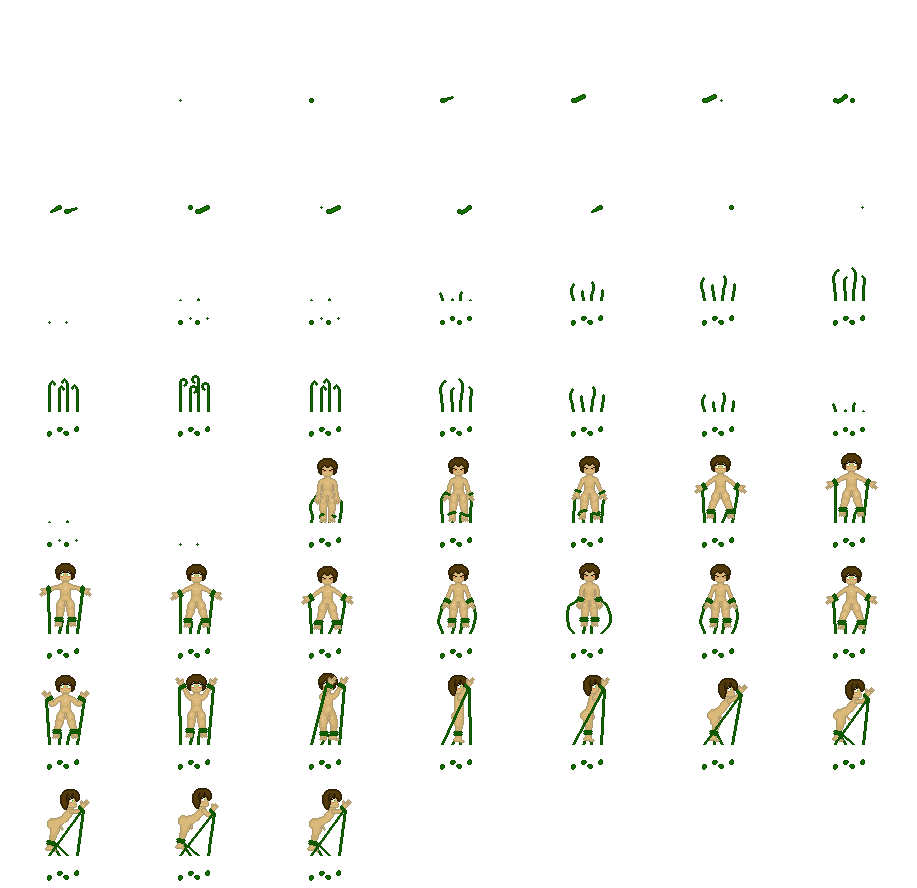
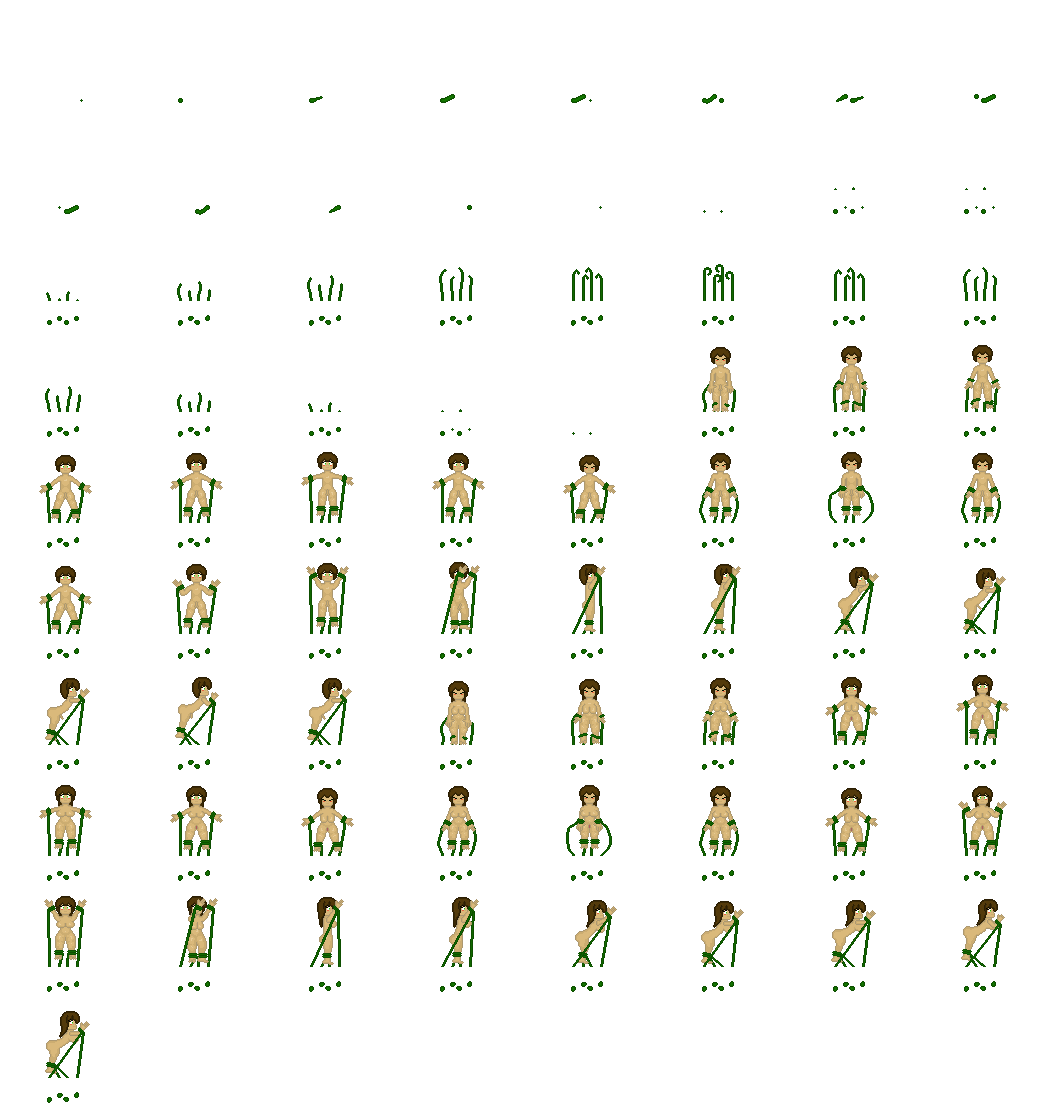
saving implementation of female player and male pumpkin sprites.

diff --git a/scripts/enemyScripts/lockwood/jackOVine/vine.js b/scripts/enemyScripts/lockwood/jackOVine/vine.js
@@ -35,6 +35,8 @@ class vine extends enemy{
         this.maxMoves = 10;
         this.currentMoves = 0;
 
+        this.destroyed = false;
+
         this.animationPlaying = false;
         this.animationPlayed = false;
         this.transitioningStates = false;
@@ -42,17 +44,24 @@ class vine extends enemy{
         this.anims.create({ key: 'travel', frames: this.anims.generateFrameNames('vines', { start: 0, end: 12 }), frameRate:  20, repeat: 0 });
         this.anims.create({ key: 'grabStart', frames: this.anims.generateFrameNames('vines', { start: 14, end: 20 }), frameRate:  10, repeat: 0 });
         this.anims.create({ key: 'grabMiddle', frames: this.anims.generateFrameNames('vines', { start: 21, end: 23 }), frameRate:  10, repeat: 0 });
-        this.anims.create({ key: 'grabEnd', frames: this.anims.generateFrameNames('vines', { start: 24, end: 29 }), frameRate:  10, repeat: 0 });
+        this.anims.create({ key: 'grabEnd', frames: this.anims.generateFrameNames('vines', { start: 24, end: 28 }), frameRate:  10, repeat: 0 });
         if(sex === 0 ){
 
-            this.anims.create({ key: 'PlayerGrabbedStart', frames: this.anims.generateFrameNames('vines', { start:30, end: 32 }), frameRate:  7, repeat: 0 });
-            this.anims.create({ key: 'PlayerGrabbed', frames: this.anims.generateFrameNames('vines', { start:33, end: 36 }), frameRate:  7, repeat: -1 });
-            this.anims.create({ key: 'PlayerGrabbedStruggle', frames: this.anims.generateFrameNames('vines', { start:37, end: 40 }), frameRate:  7, repeat: 0 });
+            this.anims.create({ key: 'PlayerGrabbedStart', frames: this.anims.generateFrameNames('vines', { start:29, end: 31 }), frameRate:  7, repeat: 0 });
+            this.anims.create({ key: 'PlayerGrabbed', frames: this.anims.generateFrameNames('vines', { start:32, end: 35 }), frameRate:  7, repeat: -1 });
+            this.anims.create({ key: 'PlayerGrabbedStruggle', frames: this.anims.generateFrameNames('vines', { start:36, end: 39 }), frameRate:  7, repeat: 0 });
             
-            this.anims.create({ key: 'PlayerGrabbedTransition', frames: this.anims.generateFrameNames('vines', { start:41, end: 47 }), frameRate:  7, repeat: 0 });
-            this.anims.create({ key: 'PlayerGrabbedRestrained', frames: this.anims.generateFrameNames('vines', { start:48, end: 51 }), frameRate:  7, repeat: -1 });
+            this.anims.create({ key: 'PlayerGrabbedTransition', frames: this.anims.generateFrameNames('vines', { start:40, end: 45 }), frameRate:  7, repeat: 0 });
+            this.anims.create({ key: 'PlayerGrabbedRestrained', frames: this.anims.generateFrameNames('vines', { start:46, end: 50 }), frameRate:  7, repeat: -1 });
         
         }else{
+            
+            this.anims.create({ key: 'PlayerGrabbedStart', frames: this.anims.generateFrameNames('vines', { start:52, end: 53 }), frameRate:  7, repeat: 0 });
+            this.anims.create({ key: 'PlayerGrabbed', frames: this.anims.generateFrameNames('vines', { start:54, end: 57 }), frameRate:  7, repeat: -1 });
+            this.anims.create({ key: 'PlayerGrabbedStruggle', frames: this.anims.generateFrameNames('vines', { start:58, end: 61 }), frameRate:  7, repeat: 0 });
+            
+            this.anims.create({ key: 'PlayerGrabbedTransition', frames: this.anims.generateFrameNames('vines', { start:62, end: 68 }), frameRate:  7, repeat: 0 });
+            this.anims.create({ key: 'PlayerGrabbedRestrained', frames: this.anims.generateFrameNames('vines', { start:69, end: 72 }), frameRate:  7, repeat: -1 });
         
         }
 
@@ -69,80 +78,82 @@ class vine extends enemy{
     }
 
     moveIdle() {
-
-        if(this.scene.playerStuckGrabbedBy === "knockdown"){
-            this.move();
-        }else{
-            this.damage();
+        if(this.destroyed === false){
+            if(this.scene.playerStuckGrabbedBy === "knockdown"){
+                this.move();
+            }else{
+                this.damage();
+            }
         }
     }
 
     move(){
+        if(this.destroyed === false){
+            //make an object which is passed by refrence to the emitter to update the hp values so the enemy has a way of seeing what the current health value is.
+            let playerHealthObject = {
+                playerHealth: null,
+                playerMaxHealth: null
+            };
 
-        //make an object which is passed by refrence to the emitter to update the hp values so the enemy has a way of seeing what the current health value is.
-        let playerHealthObject = {
-            playerHealth: null,
-            playerMaxHealth: null
-        };
+            //gets the hp value using a emitter
+            healthEmitter.emit(healthEvent.returnHealth,playerHealthObject);
 
-        //gets the hp value using a emitter
-        healthEmitter.emit(healthEvent.returnHealth,playerHealthObject);
+            if(this.x >= 793 && this.x <= 1727 && this.scene.playerLocation === "BridgeToLibertalia"){
+                if(this.checkXRangeFromPlayer(30, 30) && this.checkYRangeFromPlayer(80, 80) && playerHealthObject.playerHealth >= 1){
 
-        if(this.x >= 793 && this.x <= 1727 && this.scene.playerLocation === "BridgeToLibertalia"){
-            if(this.checkXRangeFromPlayer(30, 30) && this.checkYRangeFromPlayer(80, 80) && playerHealthObject.playerHealth >= 1){
+                    if(this.animationPlaying === false){
+                        this.animationPlaying = true;
 
-                if(this.animationPlaying === false){
-                    this.animationPlaying = true;
+                        this.x = this.scene.player1.x;
 
-                    this.x = this.scene.player1.x;
+                        this.anims.play('grabStart').once('animationcomplete', () => {
+                            this.hitboxActive = true;
+                            console.log("this.scene.grabCoolDown: ",this.scene.grabCoolDown)
+                    
+                            this.anims.play('grabMiddle').once('animationcomplete', () => {
+                                this.hitboxActive = false;
 
-                    this.anims.play('grabStart').once('animationcomplete', () => {
-                        this.hitboxActive = true;
-                        console.log("this.scene.grabCoolDown: ",this.scene.grabCoolDown)
-                
-                        this.anims.play('grabMiddle').once('animationcomplete', () => {
-                            this.hitboxActive = false;
+                                //saftey case
+                                if(this.playerGrabbed === false){
 
-                            //saftey case
-                            if(this.playerGrabbed === false){
-
-                                this.anims.play('grabEnd').once('animationcomplete', () => {
-                                
-                                    //if vines missed the player, then destroy them.
-                                    this.damage();
-                                            
-                                }); 
-                                
-                            }
-                                        
-                        });   
-                                        
-                    });
-            }
-            
-
-            }else{
-                if(this.animationPlaying === false){
-                    this.animationPlaying = true;
-                    this.anims.play('travel').once('animationcomplete', () => {
-                        this.currentMoves++; 
-                        this.animationPlaying = false; 
-
-                        if(this.flipX === false){
-                            this.x = this.x + 40;
-                        }else{
-                        this.x = this.x - 40;  
-                        }
-
-
+                                    this.anims.play('grabEnd').once('animationcomplete', () => {
                                     
-                    });
+                                        //if vines missed the player, then destroy them.
+                                        this.damage();
+                                                
+                                    }); 
+                                    
+                                }
+                                            
+                            });   
+                                            
+                        });
                 }
-            }
-        }else{
-            this.damage();
-        }
+                
 
+                }else{
+                    if(this.animationPlaying === false){
+                        this.animationPlaying = true;
+                        this.anims.play('travel').once('animationcomplete', () => {
+                            this.currentMoves++; 
+                            this.animationPlaying = false; 
+
+                            if(this.flipX === false){
+                                this.x = this.x + 40;
+                            }else{
+                            this.x = this.x - 40;  
+                            }
+
+
+                                        
+                        });
+                    }
+                }
+            }else{
+                this.damage();
+            }
+        
+        }
         //handles hit box positioning
         if(this.hitboxActive === true){
 
@@ -488,7 +499,8 @@ class vine extends enemy{
         
         console.log("this.scene: ", this.scene)
         //remove colliders since we no longer need them.
-
+        this.destroyed = true;
+        
         if(this.scene !== undefined){
             this.removeColliders();
 

diff --git a/scripts/enemyScripts/lockwood/jackOVine/jackOVine.js b/scripts/enemyScripts/lockwood/jackOVine/jackOVine.js
@@ -26,6 +26,8 @@ class jackOVine extends jackOVineMaleTF {
             }
         }
 
+        this.playerSex
+
         //make a hitbox so the cat can grab the player.
         this.grabHitBox = new hitBoxes(scene,this.x,this.y);
         this.grabHitBox.setSize(65,65,true);
@@ -117,6 +119,25 @@ class jackOVine extends jackOVineMaleTF {
                      
             //and the player is female, so only specific male on female animations
             }else{
+                this.anims.create({ key: 'jackOVineGrabStart', frames: this.anims.generateFrameNames('jov-male-female-tf1', { start: 43-43, end: 50-43 }), frameRate: 6, repeat: 0 });
+                this.anims.create({ key: 'jackOVineGrabEnd', frames: this.anims.generateFrameNames('jov-male-female-tf1', { start: 51-43, end: 54-43 }), frameRate: 6, repeat: 0 });
+                this.anims.create({ key: 'jackOVinePlowing1', frames: this.anims.generateFrameNames('jov-male-female-tf1', { start: 55-43, end: 60-43 }), frameRate: 9, repeat: 0 });
+
+                this.anims.create({ key: 'jackOVinePlowing2', frames: this.anims.generateFrameNames('jov-male-female-tf2', { start: 0, end: 5 }), frameRate: 10, repeat: -1 });
+                this.anims.create({ key: 'jackOVineFillingPlayer', frames: this.anims.generateFrameNames('jov-male-female-tf2', { start: 6, end: 23 }), frameRate: 8, repeat: 0 });
+                this.anims.create({ key: 'jackOVinePlowing3', frames: this.anims.generateFrameNames('jov-male-female-tf2', { start: 24, end: 29 }), frameRate: 11, repeat: -1 });
+                this.anims.create({ key: 'jackOVineMoveTailVine', frames: this.anims.generateFrameNames('jov-male-female-tf2', { start: 30, end: 36 }), frameRate: 8, repeat: 0 });
+                this.anims.create({ key: 'jackOVinePlowing4', frames: this.anims.generateFrameNames('jov-male-female-tf2', { start: 37, end: 42 }), frameRate: 8, repeat: -1 });
+                this.anims.create({ key: 'jackOVineLinkingVine', frames: this.anims.generateFrameNames('jov-male-female-tf2', { start: 43, end: 59 }), frameRate: 8, repeat: 0 });
+                this.anims.create({ key: 'jackOVinePlowing5', frames: this.anims.generateFrameNames('jov-male-female-tf2', { start: 60, end: 65 }), frameRate: 13, repeat: -1 });
+
+                this.anims.create({ key: 'jackOVineFinishing1', frames: this.anims.generateFrameNames('jov-male-female-tf3', { start: 0, end: 4 }), frameRate: 8, repeat: 0 });
+                this.anims.create({ key: 'jackOVineFinishing2', frames: this.anims.generateFrameNames('jov-male-female-tf3', { start: 5, end: 5 }), frameRate: 8, repeat: 0 });
+                this.anims.create({ key: 'jackOVineFinishing3', frames: this.anims.generateFrameNames('jov-male-female-tf3', { start: 6, end: 17 }), frameRate: 8, repeat: 0 });
+                this.anims.create({ key: 'jackOVineFinishingSmackStart', frames: this.anims.generateFrameNames('jov-male-female-tf3', { start: 18, end: 25 }), frameRate: 8, repeat: 0 });
+                this.anims.create({ key: 'jackOVineFinishingSmackEnd', frames: this.anims.generateFrameNames('jov-male-female-tf3', { start: 26, end: 27 }), frameRate: 8, repeat: 0 });
+
+                this.anims.create({ key: 'jackOVineFinishedIdle', frames: this.anims.generateFrameNames('jov-male-female-tf3', { start: 19, end: 22 }), frameRate: 7, repeat: -1 });
                 
             }
 
@@ -176,7 +197,8 @@ class jackOVine extends jackOVineMaleTF {
 
         }
 
-        this.anims.create({ key: 'jackOVineGameover', frames: this.anims.generateFrameNames('jov-male-tf-gameover', { start: 0, end: 9 }), frameRate: 12, repeat: -1 });
+        this.anims.create({ key: 'jackOVineGameoverMale', frames: this.anims.generateFrameNames('jov-male-tf-gameover', { start: 0, end: 9 }), frameRate: 12, repeat: -1 });
+        this.anims.create({ key: 'jackOVineGameoverFemale', frames: this.anims.generateFrameNames('jov-female-tf-gameover', { start: 0, end: 9 }), frameRate: 12, repeat: -1 });
 
         if(this.inSafeMode === true){
              this.anims.play("jackOVineIdle", true);

diff --git a/scripts/sceneScripts/sceneHirarchy/G6PreloadEnemys.js b/scripts/sceneScripts/sceneHirarchy/G6PreloadEnemys.js
@@ -389,11 +389,16 @@ class G6PreloadEnemys extends G5InitNPCs{
         tempSceneRef.load.spritesheet('jov-male-male-tf1', 'assets/enemys/jov-male-male-tf1.png',{frameWidth: 171, frameHeight: 141 });
         tempSceneRef.load.spritesheet('jov-male-male-tf2', 'assets/enemys/jov-male-male-tf2.png',{frameWidth: 171, frameHeight: 141 });
         tempSceneRef.load.spritesheet('jov-male-male-tf3', 'assets/enemys/jov-male-male-tf3.png',{frameWidth: 171, frameHeight: 141 });
+
+        tempSceneRef.load.spritesheet('jov-male-female-tf1', 'assets/enemys/jov-male-female-tf1.png',{frameWidth: 171, frameHeight: 141 });
+        tempSceneRef.load.spritesheet('jov-male-female-tf2', 'assets/enemys/jov-male-female-tf2.png',{frameWidth: 171, frameHeight: 141 });
+        tempSceneRef.load.spritesheet('jov-male-female-tf3', 'assets/enemys/jov-male-female-tf3.png',{frameWidth: 171, frameHeight: 141 });
         
         tempSceneRef.load.spritesheet('jov-female-male-tf1', 'assets/enemys/jov-female-male-tf1.png',{frameWidth: 171, frameHeight: 141 });
         tempSceneRef.load.spritesheet('jov-female-male-tf2', 'assets/enemys/jov-female-male-tf2.png',{frameWidth: 171, frameHeight: 141 });
       
         tempSceneRef.load.spritesheet('jov-male-tf-gameover', 'assets/enemys/jov-male-tf-gameover.png',{frameWidth: 171, frameHeight: 141 });
+        tempSceneRef.load.spritesheet('jov-female-tf-gameover', 'assets/enemys/jov-female-tf-gameover.png',{frameWidth: 171, frameHeight: 141 });
       
         tempSceneRef.load.audioSprite('woodBarrierSFX','audio/used-audio/wood-barrier-sounds/wood-barrier-sounds.json',[
           "audio/used-audio/wood-barrier-sounds/wood-barrier-sounds.mp3"

diff --git a/scripts/gameoverScripts/gameoverManager.js b/scripts/gameoverScripts/gameoverManager.js
@@ -1250,15 +1250,26 @@ class gameoverManager extends A3SoundEffects {
             jackOVine_male_tf: function jackOVineMaleTFFunction() {
                 tempSceneRef.preferance = 0;
                 tempSceneRef.enemy = new jackOVine(tempSceneRef,450, 580,tempSceneRef.playerSex);
-                tempSceneRef.enemy.gameOver();
                 tempSceneRef.defeatedTitle = 'cursed';
+
+                //console.log("(tempSceneRef.playerSex: ",tempSceneRef.playerSex);
+                if(tempSceneRef.playerSex === 0){
+                    tempSceneRef.enemy.gameOverMale();
+                }else{
+                    tempSceneRef.enemy.gameOverFemale();
+                }
             },
 
             jackOVine_female_tf: function jackOVinefemaleTFFunction() {
                 tempSceneRef.preferance = 1;
                 tempSceneRef.enemy = new jackOVine(tempSceneRef,450, 560,tempSceneRef.playerSex);
-                tempSceneRef.enemy.gameOver();
                 tempSceneRef.defeatedTitle = 'cursed';
+
+                if(tempSceneRef.playerSex === 0){
+                    tempSceneRef.enemy.gameOverMale();
+                }else{
+                    tempSceneRef.enemy.gameOverFemale();
+                }
             },
 
             generic: function genericFunction(){

diff --git a/scripts/enemyScripts/lockwood/jackOVine/jackOVineMaleTF.js b/scripts/enemyScripts/lockwood/jackOVine/jackOVineMaleTF.js
@@ -333,12 +333,12 @@ class jackOVineMaleTF extends jackOVineFemaleTF {
     }
 
     // functioned called to play animation when the player is defeated by the jackOVine in gameover.
-    gameOver(playerSex) {
+    gameOverMale(playerSex) {
 
         this.setSize(27, 70, true);
         this.setOffset(72, 38);
 
-        this.anims.play('jackOVineGameover', true);
+        this.anims.play('jackOVineGameoverMale', true);
 
     }
 

diff --git a/scripts/enemyScripts/lockwood/jackOVine/jackOVineFemaleTF.js b/scripts/enemyScripts/lockwood/jackOVine/jackOVineFemaleTF.js
@@ -326,12 +326,12 @@ class jackOVineFemaleTF extends enemy {
     }
 
     // functioned called to play animation when the player is defeated by the jackOVine in gameover.
-    gameOver(playerSex) {
+    gameOverFemale(playerSex) {
 
         this.setSize(27, 70, true);
         this.setOffset(72, 38);
 
-        this.anims.play('jackOVineGameover', true);
+        this.anims.play('jackOVineGameoverFemale', true);
 
     }
 

diff --git a/scripts/sceneScripts/sceneHeads/titleScreen.js b/scripts/sceneScripts/sceneHeads/titleScreen.js
@@ -272,7 +272,7 @@ class titleScreen extends defaultScene {
             this.credits.setDepth(51);
 
             this.month = new Date().getMonth();
-            this.month = 9;
+            //this.month = 9;
 
             //adds looping sound effect.
             if(this.titleLogoType === "shadow"){
